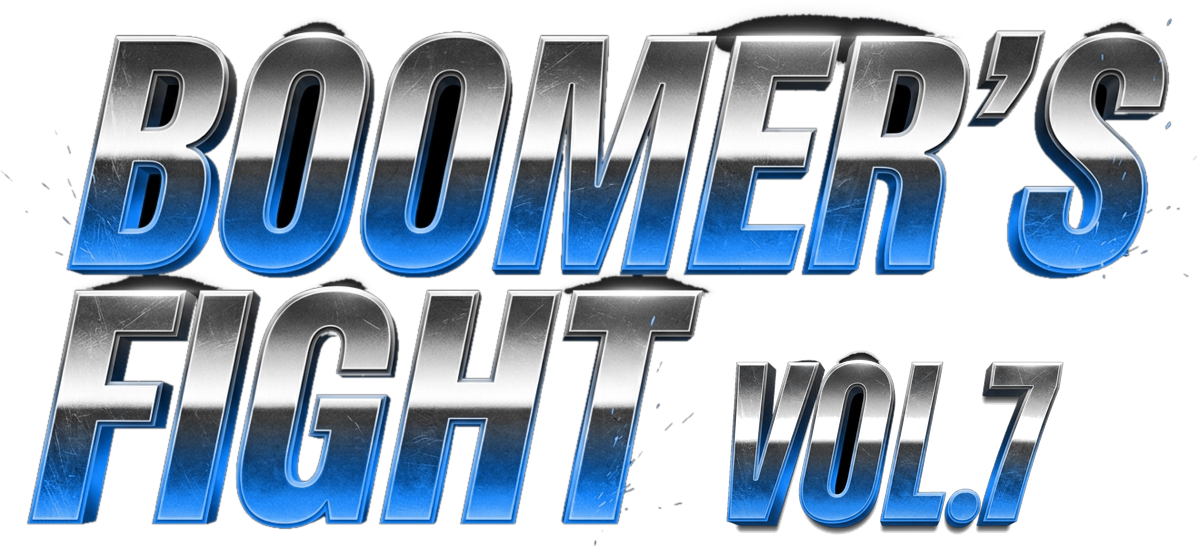
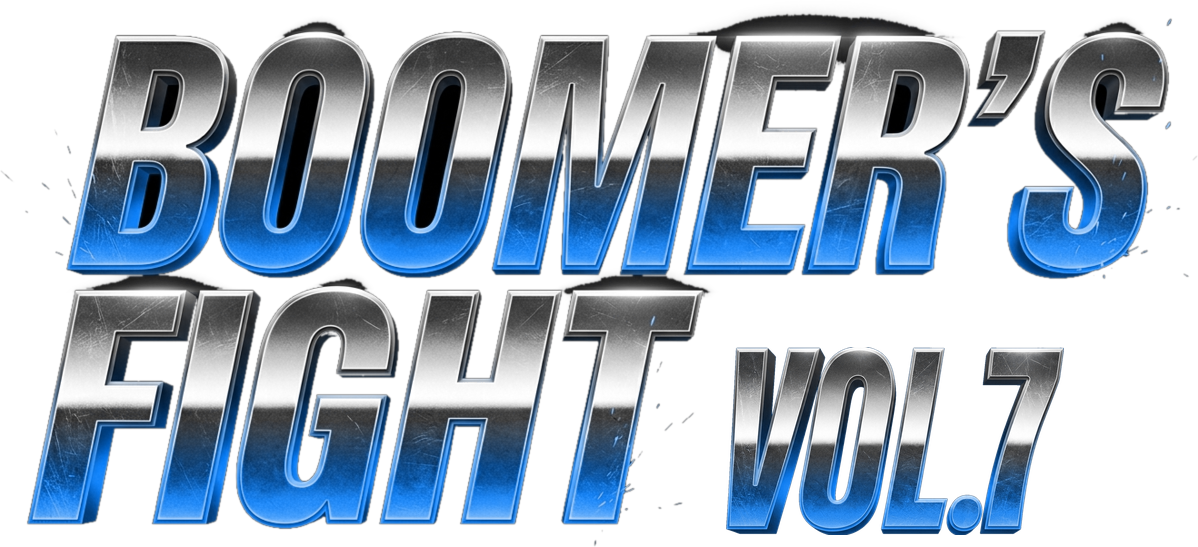
BF7: ゲストHiroを載せ、ウェイトリストをボタン起点にする + BF6トップに18:45から導線
- vol.7ロゴをvol.6の版から差し替えて作り直し(並び・サイズを合わせた)
- SPECIAL GUEST として Hiro (MIDDLE FILTER / FROM OSAKA) を切り抜き写真つきで掲載
- お知らせリストは最初に大きなボタンだけ出し、押したらフォームを開く
- BF6トップに vol.7 への導線を追加。9/26 18:45(JST)以降だけ自動で出る
  (MCが会場で発表するタイミング。それより前はサイトで先に出さない)

Changed region(s): [[0.5868, 0.6216, 0.8957, 0.9945]]

diff --git a/src/app/bf7/Bf7Client.tsx b/src/app/bf7/Bf7Client.tsx
@@ -30,6 +30,8 @@ export default function Bf7Client() {
   }, []);
 
   const [form, setForm] = useState({ name: '', email: '', divisions: [] as string[], note: '' });
+  // まず大きなボタンだけ見せ、押したらフォームを出す(TARO 2026-09-25「押したくなるボタンが最初に要る」)
+  const [formOpen, setFormOpen] = useState(false);
   const [busy, setBusy] = useState(false);
   const [error, setError] = useState('');
   const [done, setDone] = useState<null | { already: boolean }>(null);
@@ -91,12 +93,20 @@ export default function Bf7Client() {
             </p>
           </section>
 
-          {/* スペシャルゲスト(名前は出さない) */}
-          <section className="mt-4 flex items-center gap-4 rounded-2xl border border-white/10 bg-white/[0.03] p-5">
-            <div className="flex h-16 w-16 shrink-0 items-center justify-center rounded-full bg-sky-500/10 text-3xl">?</div>
-            <div>
-              <p className="text-sm font-black tracking-[0.18em] text-sky-300">SPECIAL GUEST</p>
-              <p className="mt-1 text-sm text-neutral-300">大阪から、あの人が来ます。発表までお楽しみに。</p>
+          {/* スペシャルゲスト。写真は本人からもらったもの(2026-09-25) */}
+          <section className="mt-6 overflow-hidden rounded-2xl border border-sky-500/30 bg-gradient-to-b from-sky-500/10 to-transparent">
+            <div className="flex items-end gap-3 px-5 pt-5">
+              <div className="flex-1 pb-5">
+                <p className="text-xs font-black tracking-[0.22em] text-sky-300">SPECIAL GUEST</p>
+                <p className="mt-2 text-3xl font-black leading-none">Hiro</p>
+                <p className="mt-2 text-sm font-bold text-neutral-300">MIDDLE FILTER</p>
+                <p className="mt-1 text-xs font-bold tracking-[0.14em] text-sky-300">FROM OSAKA</p>
+                <p className="mt-3 text-xs leading-relaxed text-neutral-400">
+                  大阪から、HIPHOPのダンサー Hiro さんをゲストに迎えます。
+                </p>
+              </div>
+              {/* eslint-disable-next-line @next/next/no-img-element */}
+              <img src="/bf7/guest-hiro.png" alt="Hiro (MIDDLE FILTER)" className="w-[46%] max-w-[230px] self-end" />
             </div>
           </section>
 
@@ -107,6 +117,19 @@ export default function Bf7Client() {
               登録しておくと、エントリー受付が始まったときにメールでお知らせします。この時点では申し込みではありません。
             </p>
 
+            {!done && !formOpen && (
+              <button
+                type="button"
+                onClick={() => setFormOpen(true)}
+                className="mt-4 w-full rounded-2xl bg-sky-500 px-5 py-6 text-center text-xl font-black text-neutral-950 shadow-lg shadow-sky-500/20 active:scale-[0.99]"
+              >
+                お知らせリストに登録する
+                <span className="mt-1 block text-xs font-bold text-neutral-900/70">
+                  30秒で終わります ／ 申し込みではありません
+                </span>
+              </button>
+            )}
+
             {done ? (
               <div className="mt-4 rounded-2xl border border-sky-500/40 bg-sky-500/10 p-5">
                 <p className="text-base font-black">
@@ -116,7 +139,7 @@ export default function Bf7Client() {
                   確認のメールをお送りしています。届かない場合は迷惑メールもご確認ください。
                 </p>
               </div>
-            ) : (
+            ) : formOpen ? (
               <div className="mt-4 space-y-4">
                 <div>
                   <label className="text-xs font-bold text-neutral-400">お名前</label>
@@ -171,13 +194,13 @@ export default function Bf7Client() {
                   onClick={submit}
                   className="w-full rounded-xl bg-sky-500 py-4 text-base font-black text-neutral-950 disabled:opacity-50"
                 >
-                  {busy ? '送信中…' : 'お知らせリストに登録する'}
+                  {busy ? '送信中…' : 'この内容で登録する'}
                 </button>
                 <p className="text-xs text-neutral-500">
                   いただいたメールアドレスは、vol.7のご案内にのみ使います。
                 </p>
               </div>
-            )}
+            ) : null}
           </section>
 
           <footer className="mt-10 border-t border-white/10 pt-5 text-xs text-neutral-500">

diff --git a/src/app/bf6/page.tsx b/src/app/bf6/page.tsx
@@ -5,6 +5,7 @@ import Link from 'next/link';
 import { BF6_DIVISIONS } from '@/lib/bf6';
 import { calcBf6Remaining, getBf6Faqs, getBf6Settings, getBf6Usage, getPublicBf6Entries } from '@/lib/bf6Db';
 import { getBf6StreamConfig } from '@/lib/bf6StreamDb';
+import { isBf7TeaserVisible } from '@/lib/bf7';
 import { countWaiting } from '@/lib/bf6WaitlistDb';
 import { displayedEntryCount, entryListCta } from '@/lib/bf6Waitlist';
 import { Bf6DetailBlock, Bf6SectionHead, Bf6Shell } from './ui';
@@ -47,10 +48,24 @@ export default async function Bf6TopPage() {
     ])
   );
 
+  // vol.7の導線は9/26 18:45以降だけ出す(MCの発表に合わせる)。force-dynamicなので毎回評価される。
+  const showBf7 = isBf7TeaserVisible();
+
   return (
     <Bf6Shell full>
       <Bf6FloatingCta />
       <div>
+        {showBf7 && (
+          <Link
+            href="/bf7"
+            className="block bg-gradient-to-r from-sky-700 via-sky-600 to-blue-800 px-4 py-3 text-center text-white"
+          >
+            <span className="text-[10px] font-black tracking-[0.25em] text-sky-200">NEXT</span>
+            <span className="ml-3 text-base font-black">BOOMER&apos;S FIGHT!!! vol.7</span>
+            <span className="ml-3 text-sm font-bold text-sky-100">2027.1.30(土) SSM 9階ホール</span>
+            <span className="ml-3 text-sm font-black underline underline-offset-4">くわしく →</span>
+          </Link>
+        )}
         {/* ヒーロー = フライヤー本体(タイトルは画像側が担う。テキストの重複を避ける)。
             PCはフライヤー+日付/CTAの2カラムでダイナミックに(ダンスライブ参考) */}
         <div className="bg-neutral-950 md:grid md:grid-cols-2 md:items-center">

diff --git a/src/lib/bf7.ts b/src/lib/bf7.ts
@@ -78,3 +78,15 @@ export function buildBf7NotifyEmail(v: Bf7NotifyValid): { subject: string; text:
   ];
   return { subject: "【BOOMER'S FIGHT!!! vol.7】お知らせリストに登録しました", text: lines.join('\n') };
 }
+
+/**
+ * BF6のトップページにvol.7への導線を出し始める時刻(JST)。
+ * 9/26の本番で、MCがvol.7とゲストを発表するタイミングに合わせて自動で出す(TARO 2026-09-25)。
+ * これより前は出さない = 会場より先にサイトでネタバレしない、という意図。
+ */
+export const BF7_TEASER_AT = '2026-09-26T18:45:00+09:00';
+
+/** BF6トップにvol.7の導線を出してよいか。 */
+export function isBf7TeaserVisible(now: Date = new Date()): boolean {
+  return now.getTime() >= new Date(BF7_TEASER_AT).getTime();
+}

diff --git a/src/lib/__tests__/bf7Teaser.test.ts b/src/lib/__tests__/bf7Teaser.test.ts
@@ -1,0 +1,16 @@
+import { describe, expect, it } from 'vitest';
+import { BF7_TEASER_AT, isBf7TeaserVisible } from '../bf7';
+
+describe('isBf7TeaserVisible', () => {
+  it('発表前(9/26 18:44 JST)は出さない', () => {
+    expect(isBf7TeaserVisible(new Date('2026-09-26T18:44:59+09:00'))).toBe(false);
+  });
+
+  it('ちょうど18:45で出る', () => {
+    expect(isBf7TeaserVisible(new Date(BF7_TEASER_AT))).toBe(true);
+  });
+
+  it('イベント後はずっと出たまま', () => {
+    expect(isBf7TeaserVisible(new Date('2026-10-05T09:00:00+09:00'))).toBe(true);
+  });
+});
